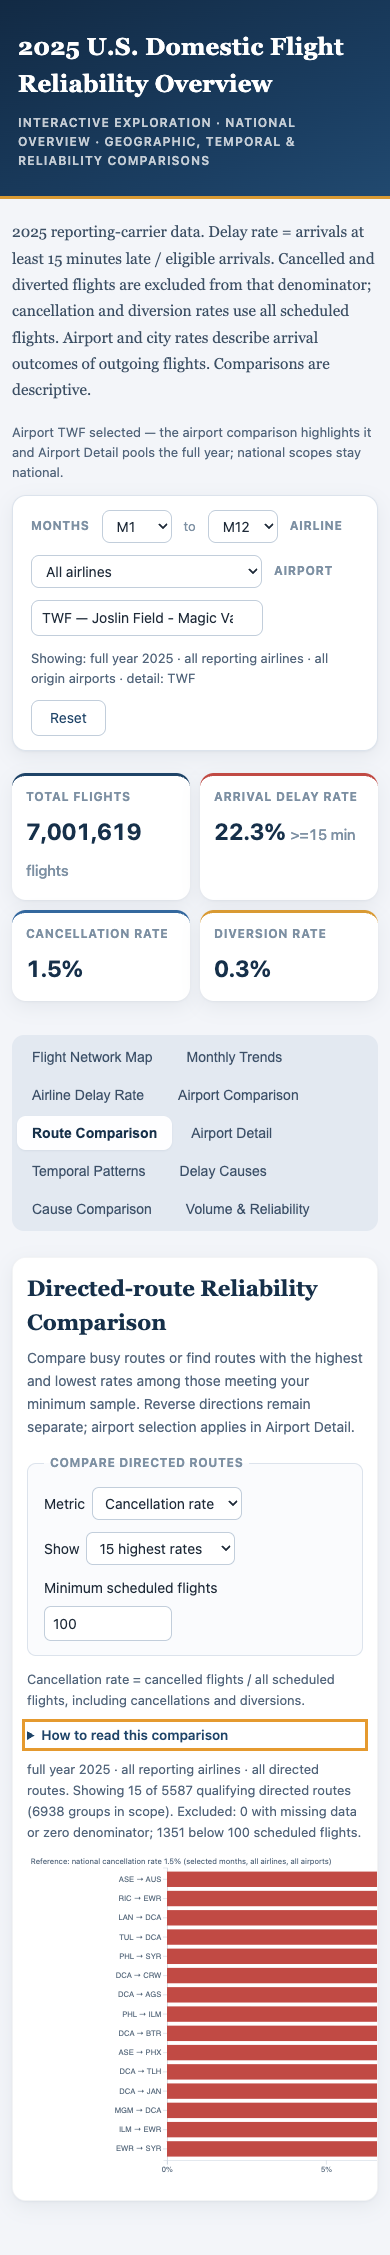
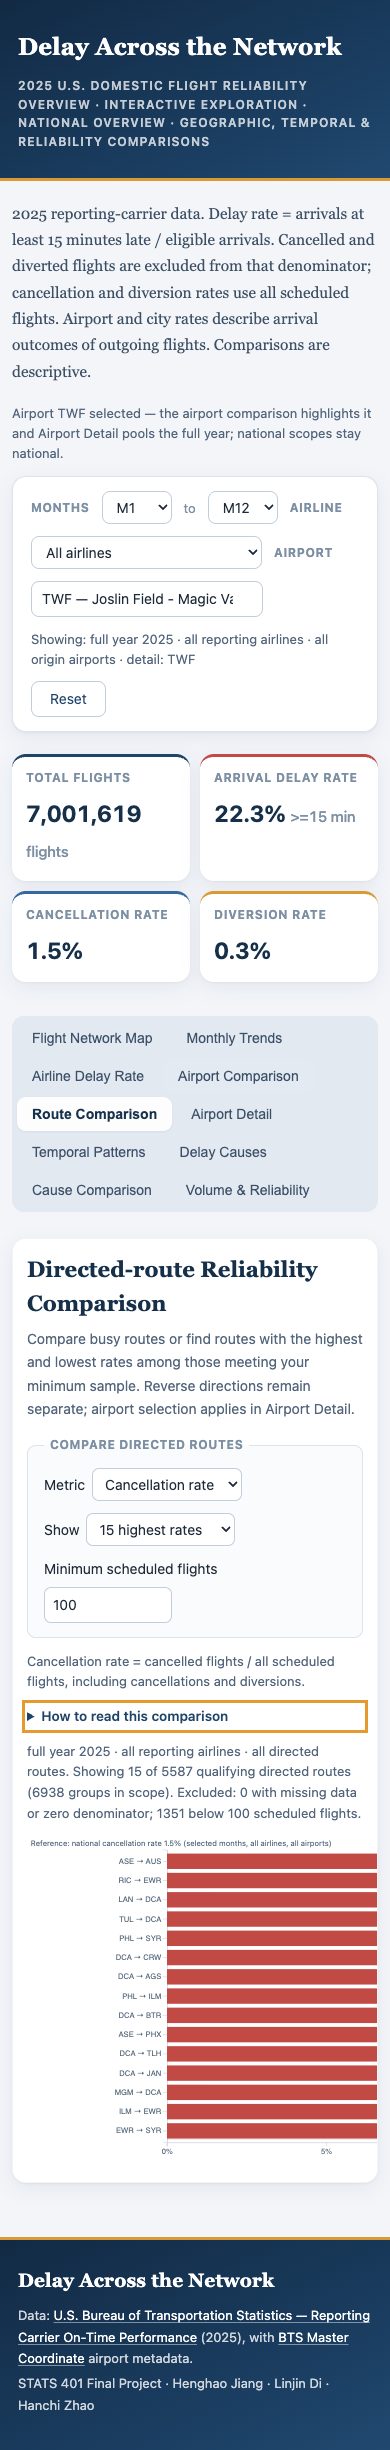
feat: add footer and secondary title

diff --git a/site/css/style.css b/site/css/style.css
@@ -67,11 +67,20 @@ header {
   border-bottom: 3px solid var(--amber);
 }
 header h1 {
-  margin: 0 0 12px;
+  margin: 0 0 6px;
   font-family: var(--font-serif);
   font-size: 31px;
   font-weight: 700;
   letter-spacing: .01em;
+}
+header h2 {
+  margin: 0 0 16px;
+  font-family: var(--font-serif);
+  font-size: 19px;
+  font-weight: 400;
+  font-style: italic;
+  letter-spacing: .01em;
+  opacity: .92;
 }
 header p {
   margin: 0;
@@ -381,12 +390,44 @@ section svg { width: 100%; height: auto; display: block; }
 .map-legend-text { font-size: 10px; fill: #5f7383; }
 
 /* ============================================================
+   Footer — mirrors the header band
+   ============================================================ */
+footer {
+  background: linear-gradient(155deg, var(--ink-900) 0%, #1b3f63 72%, #21496f 100%);
+  color: #fff;
+  border-top: 3px solid var(--amber);
+  padding: 34px 48px 38px;
+}
+.footer-brand {
+  margin: 0 0 10px;
+  font-family: var(--font-serif);
+  font-size: 19px;
+  font-weight: 700;
+  letter-spacing: .01em;
+}
+.footer-line {
+  margin: 4px 0;
+  font-size: 13px;
+  line-height: 1.65;
+  color: rgba(255, 255, 255, .8);
+}
+.footer-line a {
+  color: #fff;
+  text-decoration-color: rgba(255, 255, 255, .45);
+  text-underline-offset: 2px;
+}
+.footer-line a:hover { text-decoration-color: #fff; }
+footer a:focus-visible { outline: 3px solid var(--focus); outline-offset: 2px; }
+
+/* ============================================================
    Narrow screens
    ============================================================ */
 @media (max-width: 650px) {
   header { padding: 28px 18px 26px; }
   header h1 { font-size: 24px; }
+  header h2 { font-size: 15.5px; margin-bottom: 12px; }
   header p { letter-spacing: .09em; }
+  footer { padding: 26px 18px 30px; }
   .container { padding: 20px 12px; }
   .kpi-row { grid-template-columns: repeat(2, minmax(0, 1fr)); gap: 10px; }
   .kpi { padding: 12px 14px 14px; }

diff --git a/site/index.html b/site/index.html
@@ -4,7 +4,7 @@
 <meta charset="UTF-8">
 <meta name="viewport" content="width=device-width, initial-scale=1">
 <link rel="icon" href="data:,">
-<title>2025 U.S. Domestic Flight Reliability Overview</title>
+<title>Delay Across the Network — 2025 U.S. Domestic Flight Reliability Overview</title>
 <script src="vendor/d3.min.js"></script>
 <script src="vendor/topojson-client.min.js"></script>
 <link rel="stylesheet" href="css/style.css">
@@ -12,7 +12,8 @@
 <body>
 
 <header>
-  <h1>2025 U.S. Domestic Flight Reliability Overview</h1>
+  <h1>Delay Across the Network</h1>
+  <h2>2025 U.S. Domestic Flight Reliability Overview</h2>
   <p>Interactive Exploration &middot; National Overview &middot; Geographic, Temporal &amp; Reliability Comparisons</p>
 </header>
 
@@ -255,6 +256,13 @@
   </div>
 
 </main>
+
+<footer>
+  <p class="footer-brand">Delay Across the Network</p>
+  <p class="footer-line">Data: <a href="https://www.transtats.bts.gov/DL_SelectFields.aspx?QO_fu146_anzr=b0-gvzr&amp;gnoyr_VQ=FGJ" target="_blank" rel="noopener">U.S. Bureau of Transportation Statistics — Reporting Carrier On-Time Performance</a> (2025), with <a href="https://www.transtats.bts.gov/DL_SelectFields.aspx?QO_fu146_anzr=N8vn6v10+f722146+gnoyr5&amp;gnoyr_VQ=FLL" target="_blank" rel="noopener">BTS Master Coordinate</a> airport metadata.</p>
+  <p class="footer-line">Course: STATS 401: Data Acquisition and Visualization - Final Project</p>
+  <p class="footer-line">Group Member: Henghao Jiang &middot; Linjin Di &middot; Hanchi Zhao</p>
+</footer>
 
 <div class="tooltip" id="tooltip"></div>
 <div class="airport-chooser" id="airport-chooser" role="dialog" aria-label="Choose an airport" hidden></div>
